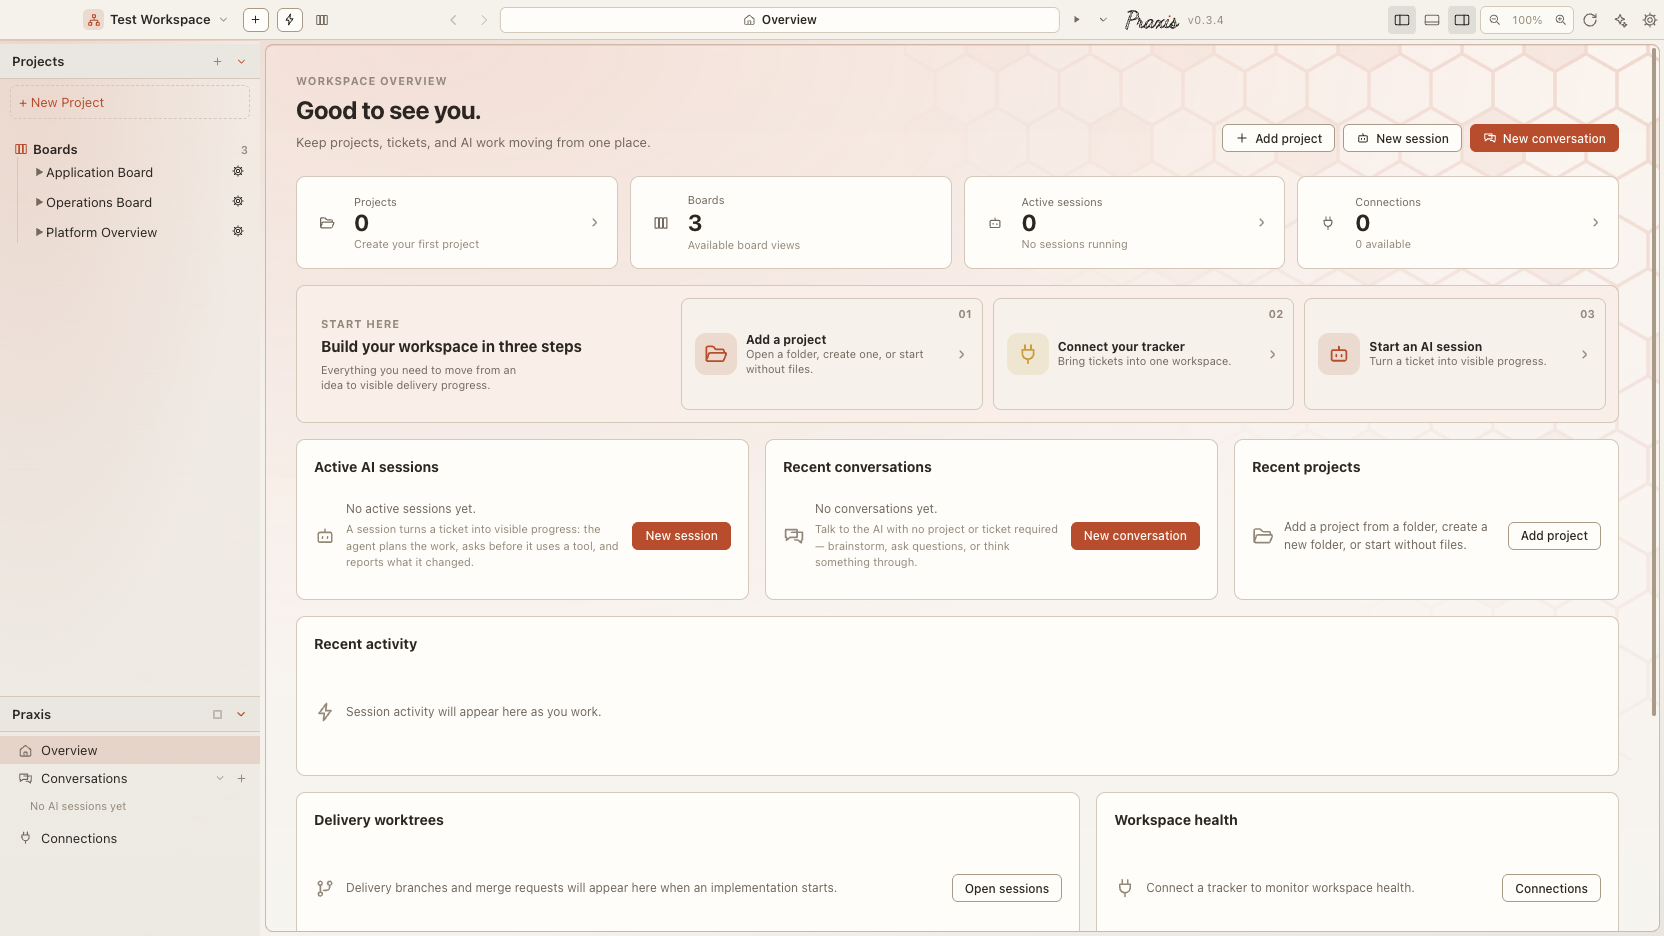
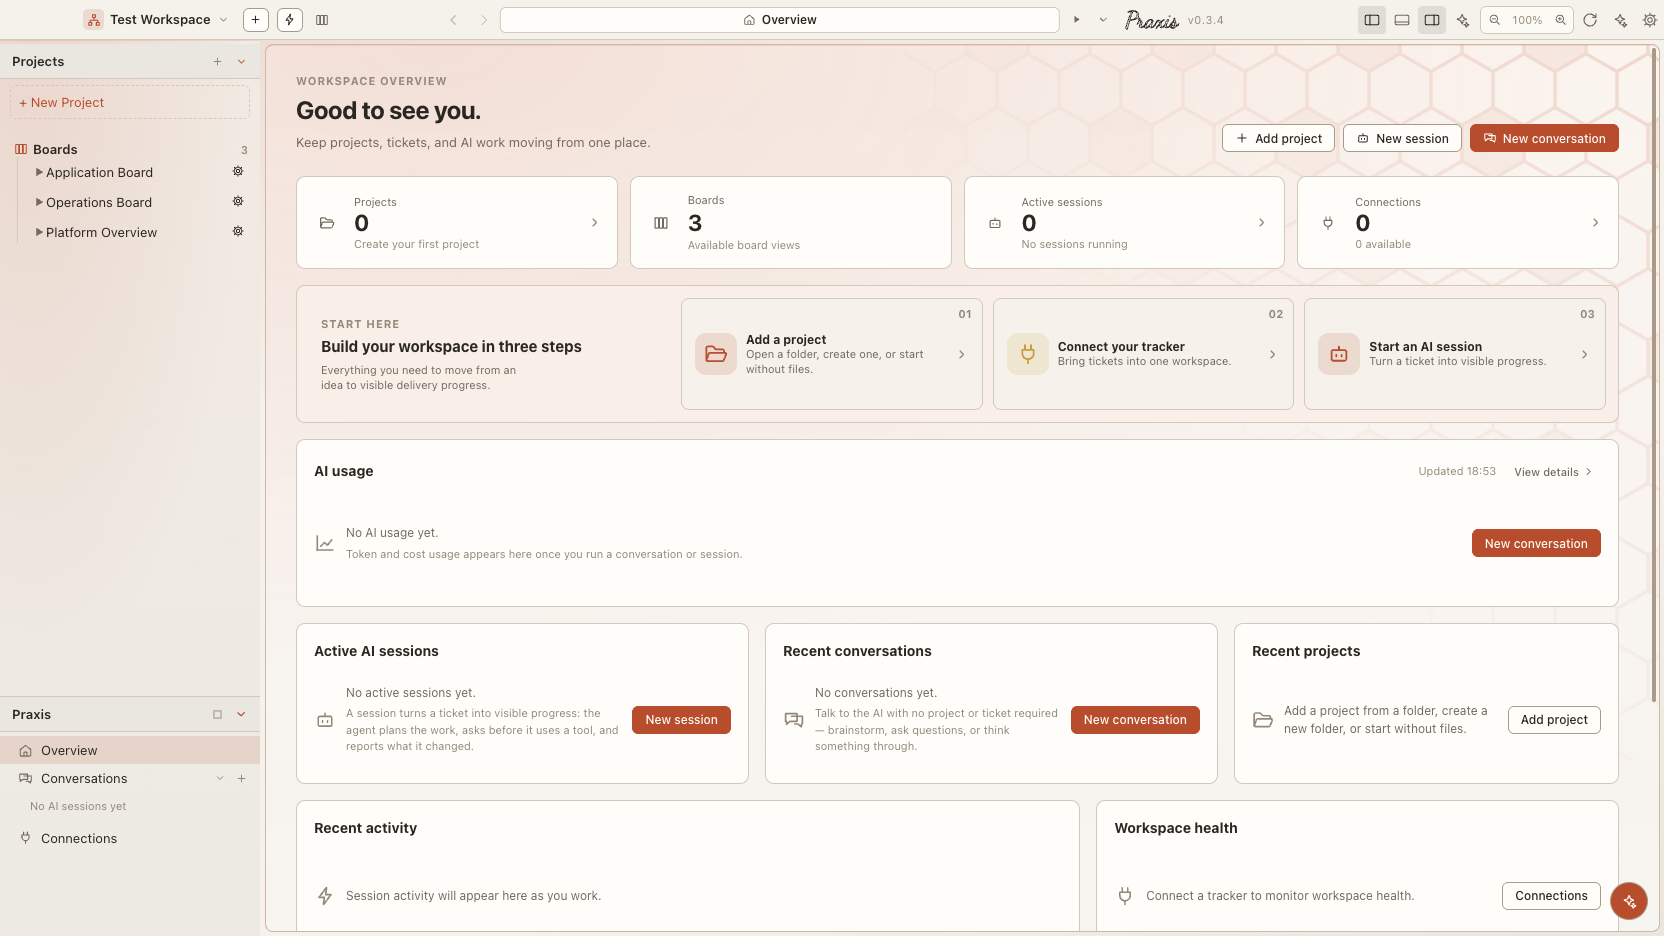
feat(overview): AI usage dashboard polish and e2e screenshots
Remaining overview dashboard changes, plus regenerated session-artifact
and playwright screenshots.

diff --git a/apps/praxis-desktop/renderer/src/app/OverviewPage.tsx b/apps/praxis-desktop/renderer/src/app/OverviewPage.tsx
@@ -75,14 +75,11 @@ export function OverviewPage({ projects, boards, connections, sessions, connecti
         </section>
       </div>
 
-      <section className="overview-panel overview-activity"><PanelHeading title="Recent activity" action={recentSessions.length ? 'Open sessions' : undefined} onAction={onOpenSessions} />
-        {recentSessions.length === 0 ? <EmptyOverview icon="zap" text="Session activity will appear here as you work." /> : <div className="overview-activity-list">{recentSessions.map((session, index) => <div className="overview-activity-row" key={session.issueKey}><span className={`overview-activity-marker overview-status-${session.state}`} role="img" aria-label={`Status: ${stateLabel[session.state]}`} title={stateLabel[session.state]}><Icon name={index === 0 ? 'robot' : 'check-square'} size={12} /></span><span><strong>{session.title || session.issueKey}</strong><small>{new Date(session.startedAt).toLocaleString()}</small></span><button className="btn btn-quiet" type="button" onClick={onOpenSessions}>Open</button></div>)}</div>}
-      </section>
-
-      <div className="overview-columns overview-lower-grid">
-        <section className="overview-panel"><PanelHeading title="Delivery worktrees" action={sessions.some(session => session.delivery) ? 'View sessions' : undefined} onAction={onOpenSessions} />
-          {sessions.some(session => session.delivery) ? <div className="overview-delivery-list">{sessions.filter(session => session.delivery).slice(0, 4).map(session => <DeliveryCard key={session.issueKey} session={session} onOpen={onOpenSessions} />)}</div> : <EmptyOverview icon="git-branch" text="Delivery branches and merge requests will appear here when an implementation starts." action="Open sessions" onAction={onOpenSessions} />}
+      <div className="overview-columns">
+        <section className="overview-panel overview-activity"><PanelHeading title="Recent activity" action={recentSessions.length ? 'Open sessions' : undefined} onAction={onOpenSessions} />
+          {recentSessions.length === 0 ? <EmptyOverview icon="zap" text="Session activity will appear here as you work." /> : <div className="overview-activity-list">{recentSessions.map((session, index) => <div className="overview-activity-row" key={session.issueKey}><span className={`overview-activity-marker overview-status-${session.state}`} role="img" aria-label={`Status: ${stateLabel[session.state]}`} title={stateLabel[session.state]}><Icon name={index === 0 ? 'robot' : 'check-square'} size={12} /></span><span><strong>{session.title || session.issueKey}</strong><small>{new Date(session.startedAt).toLocaleString()}</small></span><button className="btn btn-quiet" type="button" onClick={onOpenSessions}>Open</button></div>)}</div>}
         </section>
+
         <section className="overview-panel"><PanelHeading title="Workspace health" action={connections.length ? 'Connections' : undefined} onAction={onOpenConnections} />
           {connections.length === 0 ? <EmptyOverview icon="plug" text="Connect a tracker to monitor workspace health." action="Connections" onAction={onOpenConnections} /> : <div className="overview-health-list">{connections.slice(0, 5).map(connection => { const check = connectionChecks[connection.id]; const status = check?.status === 'error' ? 'Unavailable' : check?.status === 'ok' ? 'Healthy' : 'Not checked'; const width = check?.status === 'error' ? 28 : check?.status === 'ok' ? 100 : 58; return <div className="overview-health-card" key={connection.id}><div className="overview-health-row"><span className={`overview-health-dot ${check?.status === 'error' ? 'error' : check?.status === 'ok' ? 'ok' : ''}`} /><span><strong>{connection.name}</strong><small>{connection.mode} · {status}</small></span><Icon name="chevron-right" size={14} /></div><div className="overview-health-bar"><i style={{ width: `${width}%` }} /></div></div>; })}</div>}
           <div className="overview-runtime-widget"><span className="overview-runtime-icon"><Icon name="zap" size={15} /></span><span><strong>Agent runtime</strong><small>{runtime ? `${runtime.profiles} profiles · ${runtime.hosts} hosts · ${runtime.skills} skills` : 'Checking profiles, hosts and skills…'}</small></span><span className="overview-health-dot ok" /></div>
@@ -103,4 +100,3 @@ function OverviewStat({ icon, label, value, detail, onClick, tone }: { icon: 'fo
 function PanelHeading({ title, action, onAction }: { title: string; action?: string; onAction?: () => void }) { return <div className="overview-panel-heading"><h2>{title}</h2>{action && <button className="btn btn-quiet" type="button" onClick={onAction}>{action} <Icon name="chevron-right" size={13} /></button>}</div>; }
 function EmptyOverview({ icon, text, action, onAction }: { icon: 'robot' | 'folder-open' | 'zap' | 'columns' | 'git-branch' | 'plug'; text: string; action?: string; onAction?: () => void }) { return <div className="overview-empty"><Icon name={icon} size={22} /><span>{text}</span>{action && <button className="btn" type="button" onClick={onAction}>{action}</button>}</div>; }
 function SessionCard({ session, onOpen }: { session: AgentSessionRecord; onOpen: () => void }) { const progress = session.state === 'planning' ? 35 : session.state === 'awaiting_approval' ? 55 : 78; return <button className={`overview-session-card overview-session-${session.provider ?? 'agent'}`} type="button" onClick={onOpen}><div className="overview-session-card-top"><span className={`overview-status-dot overview-status-${session.state}`} role="img" aria-label={`Status: ${stateLabel[session.state]}`} title={stateLabel[session.state]} /><strong>{session.title || session.issueKey}</strong></div><small>{session.provider ?? 'Agent'} · Started {new Date(session.startedAt).toLocaleTimeString([], { hour: '2-digit', minute: '2-digit' })}</small><div className="overview-timeline"><span className="timeline-node done" /><span className="timeline-line done" /><span className={`timeline-node ${progress >= 35 ? 'done' : ''}`} /><span className={`timeline-line ${progress >= 55 ? 'done' : ''}`} /><span className={`timeline-node ${progress >= 55 ? 'done' : ''}`} /><span className={`timeline-line ${progress >= 78 ? 'done' : ''}`} /><span className={`timeline-node ${progress >= 78 ? 'done' : ''}`} /></div><div className="overview-progress"><span style={{ width: `${progress}%` }} /></div></button>; }
-function DeliveryCard({ session, onOpen }: { session: AgentSessionRecord; onOpen: () => void }) { const delivery = session.delivery!; const phase = delivery.phase.replaceAll('-', ' '); return <button className="overview-delivery-card" type="button" onClick={onOpen}><div className="overview-delivery-heading"><Icon name="git-branch" size={15} /><strong>{session.issueKey}</strong><span>{phase}</span></div><small>{delivery.createdBranch || delivery.worktreeName || 'Worktree pending'}</small><div className="overview-delivery-steps"><span className="done">Plan</span><span className={delivery.phase === 'analysis' ? 'current' : 'done'}>Implement</span><span className={delivery.mergeRequest ? 'current' : ''}>Review</span><span>Merge</span></div></button>; }

diff --git a/apps/praxis-desktop/renderer/src/theme.css b/apps/praxis-desktop/renderer/src/theme.css
@@ -5088,6 +5088,7 @@ button.overview-stat:hover, .overview-list-row:hover, .overview-session-card:hov
 .overview-panel { min-width: 0; padding: 17px; border: 1px solid var(--border); border-radius: 9px; background: var(--bg-secondary); }
 .overview-panel-heading { display: flex; align-items: center; justify-content: space-between; gap: 12px; margin-bottom: 12px; }
 .overview-panel-heading h2 { margin: 0; font-size: 14px; }
+.overview-health-list { display: flex; flex-direction: column; gap: 8px; }
 /* AI usage panel (FX-BF-049): full width, between "Start here" and the three-column row. Theme tokens only. */
 .overview-usage { margin-bottom: 16px; }
 .overview-usage-updated { margin-left: auto; color: var(--text-tertiary); font-size: var(--text-xs); }
@@ -5157,19 +5158,6 @@ button.overview-stat:hover, .overview-list-row:hover, .overview-session-card:hov
 .overview-board-grid { display: grid; grid-template-columns: repeat(3, minmax(0, 1fr)); gap: 8px; }
 .overview-board-card { min-height: 64px; padding: 11px; border: 1px solid var(--border); border-radius: 7px; background: var(--bg); color: inherit; text-align: left; cursor: pointer; }
 .overview-board-card { display: grid; grid-template-columns: auto 1fr; align-items: center; gap: 9px; min-height: 68px; }.overview-board-card:hover { border-color: var(--board-color); }.overview-board-art { display: grid; place-items: center; width: 30px; height: 30px; border-radius: 7px; color: var(--board-color); background: color-mix(in srgb, var(--board-color) 14%, var(--bg)); }.overview-board-card > span:nth-child(2) { display: flex; min-width: 0; flex-direction: column; gap: 3px; }.overview-board-card strong { overflow: hidden; text-overflow: ellipsis; white-space: nowrap; }.board-tone-0 { --board-color: #2d8cff; }.board-tone-1 { --board-color: #8b72ff; }.board-tone-2 { --board-color: #4caf78; }.board-tone-3 { --board-color: #d99a2b; }
-.overview-lower-grid { margin-bottom: 0; }
-.overview-delivery-list, .overview-health-list { display: flex; flex-direction: column; gap: 8px; }
-.overview-delivery-card { display: block; width: 100%; padding: 11px 12px; border: 1px solid var(--border); border-radius: 7px; background: var(--bg); color: inherit; text-align: left; cursor: pointer; }
-.overview-delivery-card:hover { border-color: var(--accent-border); background: var(--bg-hover); }
-.overview-delivery-heading { display: flex; align-items: center; gap: 7px; }
-.overview-delivery-heading svg { color: var(--accent); }
-.overview-delivery-heading span { margin-left: auto; color: var(--text-secondary); font-size: var(--text-xs); text-transform: capitalize; }
-.overview-delivery-card small { display: block; margin-top: 6px; color: var(--text-tertiary); overflow: hidden; text-overflow: ellipsis; white-space: nowrap; }
-.overview-delivery-steps { display: flex; gap: 0; margin-top: 11px; color: var(--text-tertiary); font-size: var(--text-xs); }
-.overview-delivery-steps span { display: flex; align-items: center; flex: 1; }
-.overview-delivery-steps span:not(:last-child)::after { height: 1px; flex: 1; margin: 0 6px; background: var(--border); content: ''; }
-.overview-delivery-steps span.done { color: var(--success); }
-.overview-delivery-steps span.current { color: var(--tone-progress); }
 .overview-health-row { display: flex; align-items: center; gap: 9px; padding: 9px 3px; border-bottom: 1px solid var(--border-subtle); }
 .overview-health-row > span:nth-child(2) { display: flex; flex: 1; flex-direction: column; gap: 2px; }
 .overview-health-row > svg { color: var(--text-tertiary); }
@@ -5194,7 +5182,7 @@ button.overview-stat:hover, .overview-list-row:hover, .overview-session-card:hov
 .overview-page { background: transparent; }
 .overview-stat, .overview-panel { background: color-mix(in srgb, var(--bg-elevated) calc(var(--surface-panel-opacity) * 100%), transparent); backdrop-filter: var(--surface-backdrop); }
 .overview-starter-strip { background: color-mix(in srgb, var(--accent) 8%, var(--bg-elevated)); }
-.overview-starter-card, .overview-session-card, .overview-project-card, .overview-board-card, .overview-delivery-card, .overview-runtime-widget { background: color-mix(in srgb, var(--bg) 62%, transparent); }
+.overview-starter-card, .overview-session-card, .overview-project-card, .overview-board-card, .overview-runtime-widget { background: color-mix(in srgb, var(--bg) 62%, transparent); }
 .starter-connection .overview-starter-art, .overview-stat-icon.warning { color: var(--warning); background: color-mix(in srgb, var(--warning) 14%, var(--bg)); }
 .starter-session .overview-starter-art { color: var(--accent); background: color-mix(in srgb, var(--accent) 14%, var(--bg)); }
 .overview-session-copilot::before, .overview-session-anthropic::before, .overview-session-openai::before { background: var(--accent); }

diff --git a/apps/praxis-desktop/main/e2e/overview.spec.ts b/apps/praxis-desktop/main/e2e/overview.spec.ts
@@ -13,7 +13,8 @@ test('renders the workspace overview dashboard', async () => {
   await expect(page.getByText('Workspace overview')).toBeVisible();
   await expect(page.getByText('Active AI sessions')).toBeVisible();
   await expect(page.getByText('Recent projects')).toBeVisible();
-  await expect(page.getByText('Delivery worktrees')).toBeVisible();
+  await expect(page.getByText('Recent activity')).toBeVisible();
+  await expect(page.getByText('Delivery worktrees')).toHaveCount(0);
   await expect(page.getByRole('heading', { name: 'Workspace health' })).toBeVisible();
   await page.screenshot({ path: 'output/playwright/overview-dashboard.png', fullPage: true });
   await page.locator('[data-testid="titlebar-settings"]').click();

diff --git a/apps/praxis-desktop/renderer/src/app/AiUsageDashboardPanel.tsx b/apps/praxis-desktop/renderer/src/app/AiUsageDashboardPanel.tsx
@@ -71,7 +71,7 @@ export function AiUsageDashboardPanel({ onOpenDetails, onNewConversation }: AiUs
       {!error && !summary && <div className="overview-empty"><span>Loading usage…</span></div>}
 
       {summary && empty && (
-        <div className="overview-empty" data-testid="overview-usage-empty">
+        <div className="overview-empty overview-empty-sessions" data-testid="overview-usage-empty">
           <Icon name="graph" size={22} />
           <span>No AI usage yet.<small>Token and cost usage appears here once you run a conversation or session.</small></span>
           <button className="btn btn-primary" type="button" onClick={onNewConversation}>New conversation</button>
